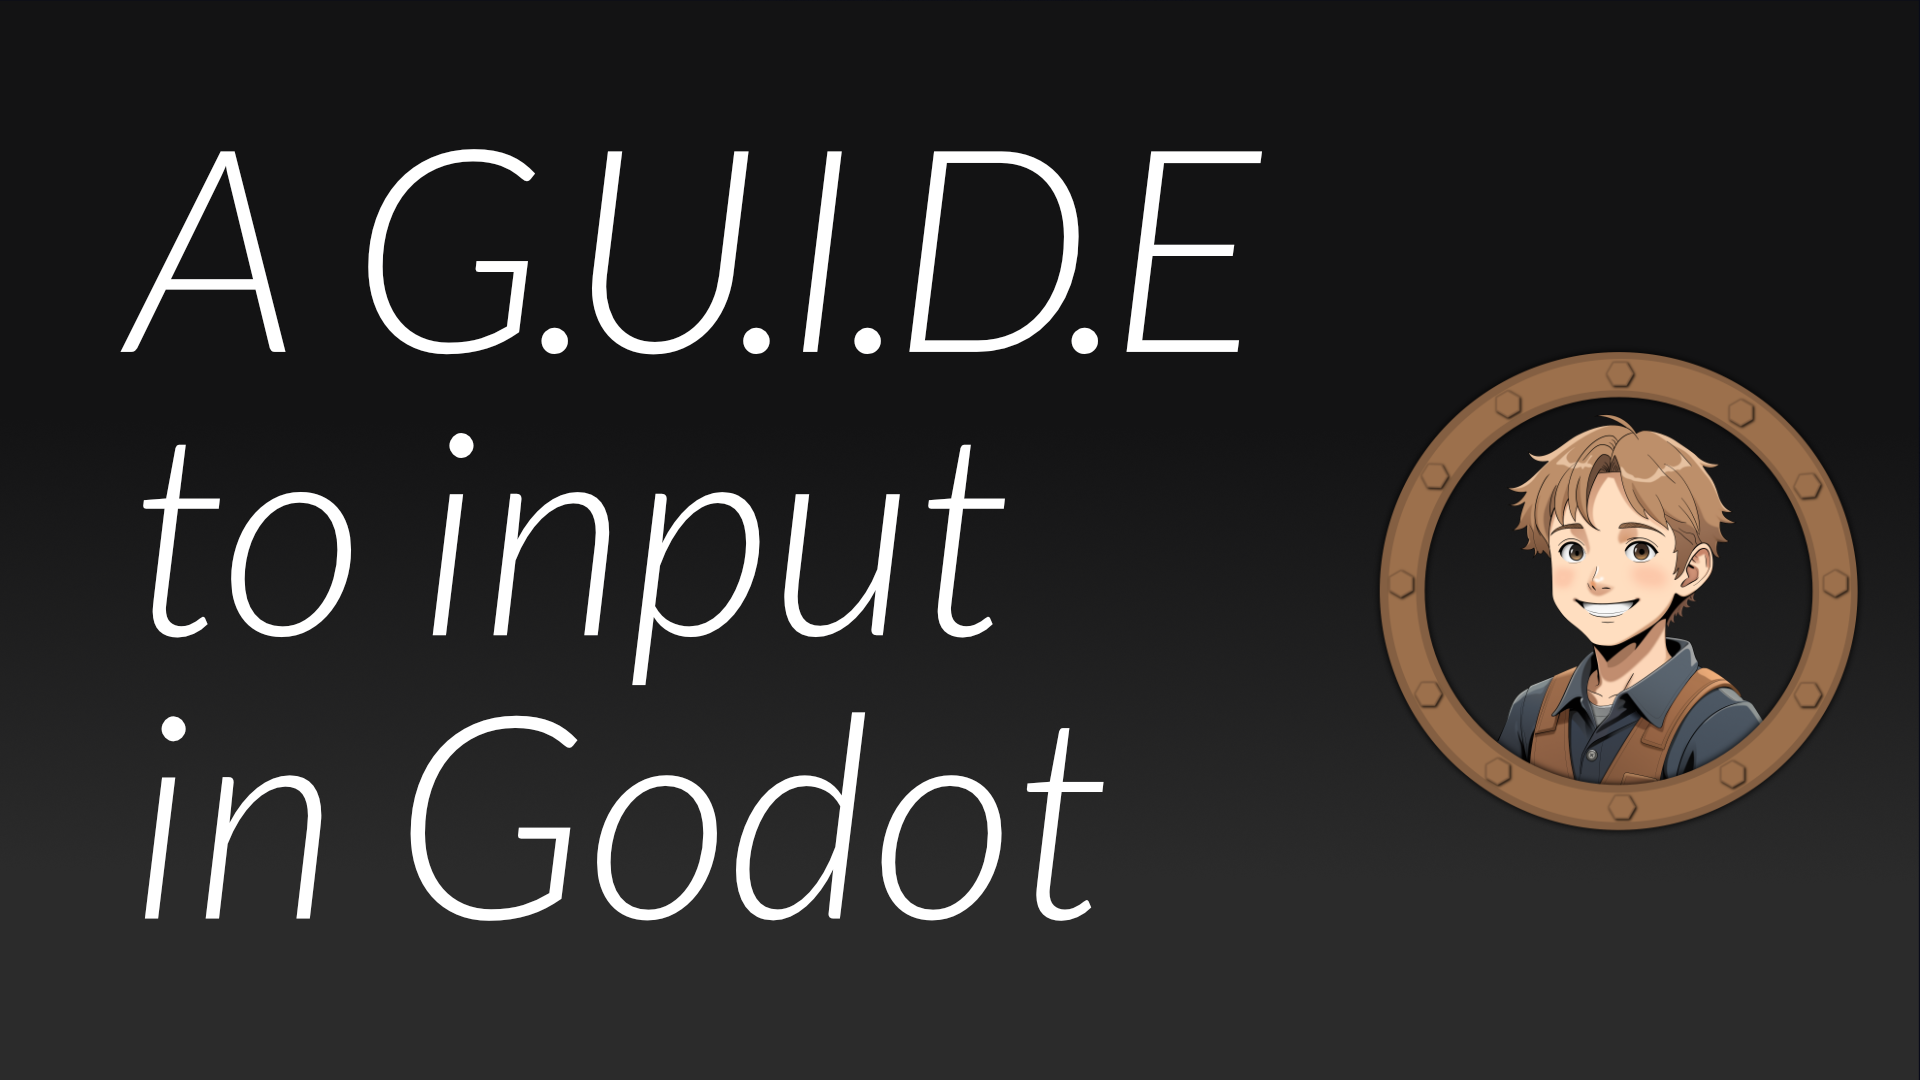
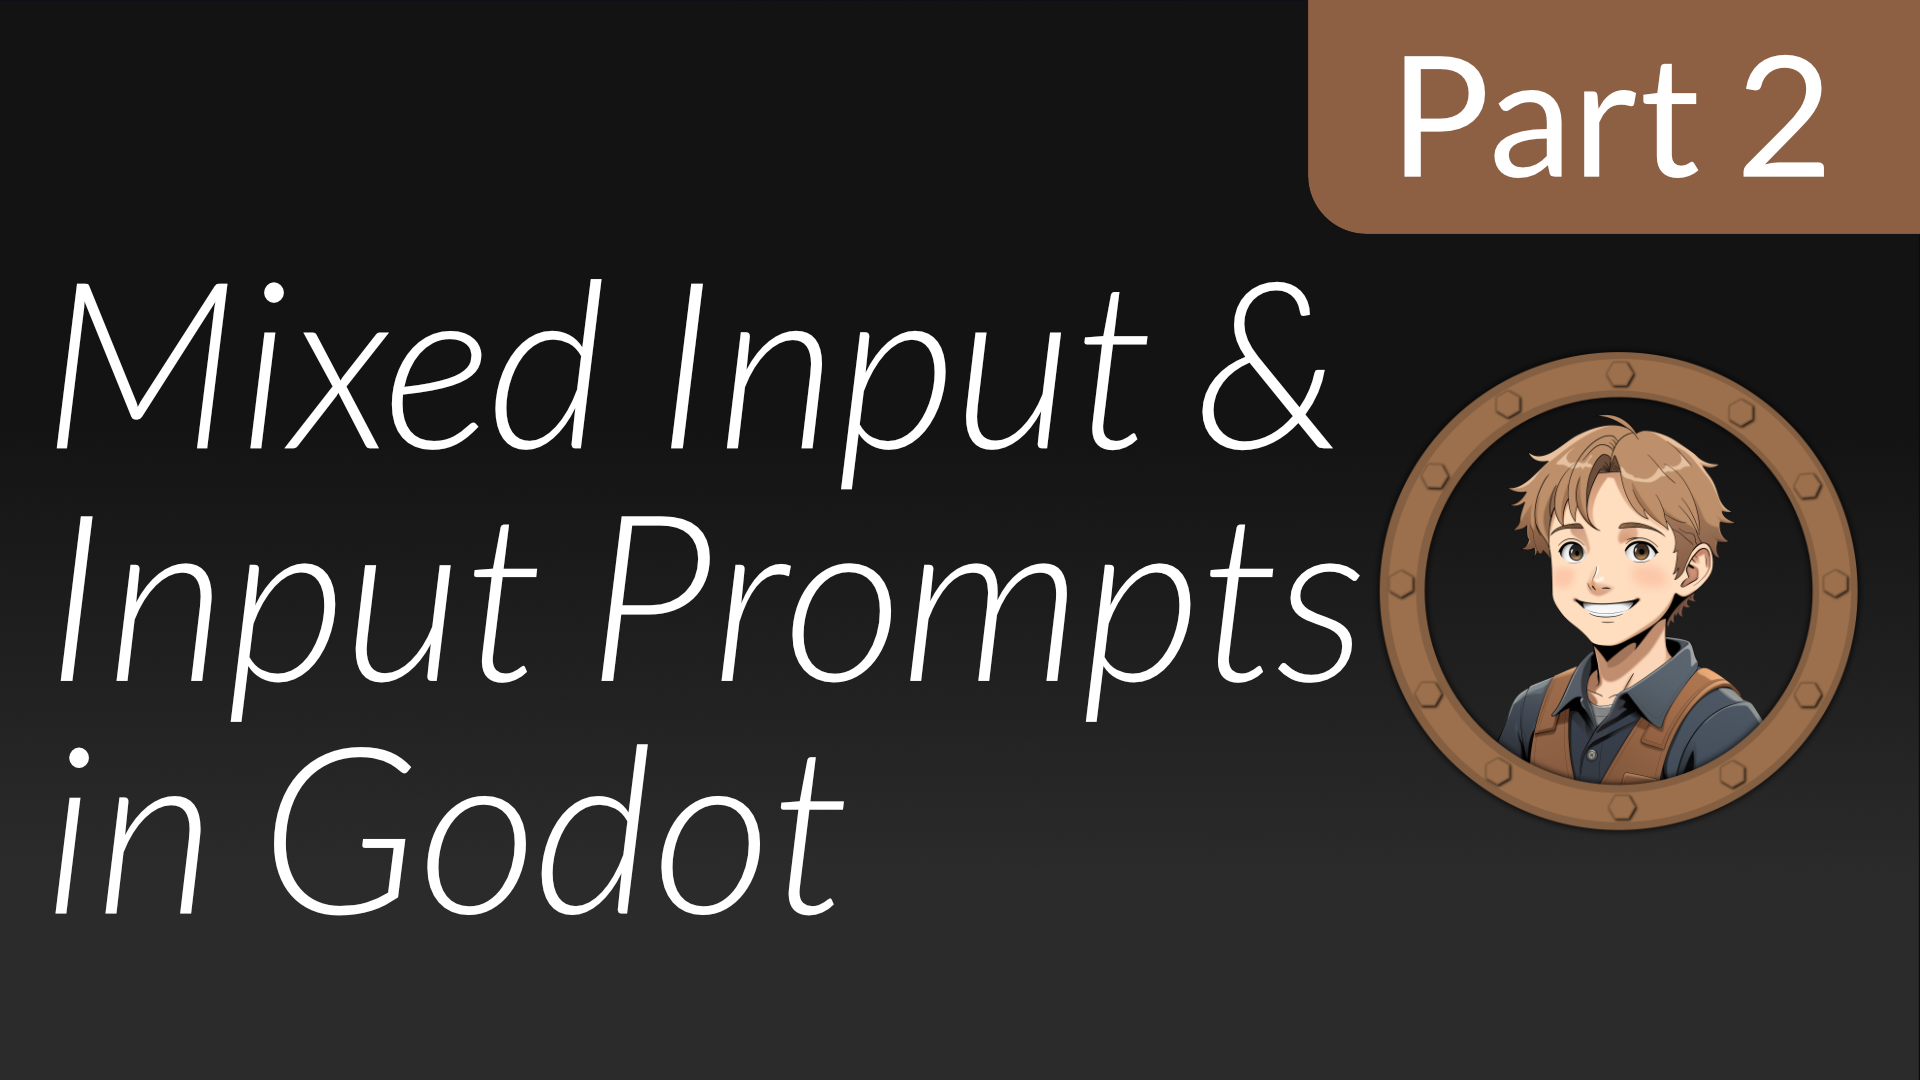
chore: update title image / video link

Changed region(s): [[0.0312, 0.0, 1.0, 0.8556], [0.2188, 0.1222, 0.2812, 0.1833]]

diff --git a/README.md b/README.md
@@ -1,7 +1,7 @@
 # A G.U.I.D.E to input in Godot - Part 2: Mixed Input and Input Prompts
  
 <p align="center">
-  <a href="https://youtu.be/gNiiaNViaUg">
+  <a href="https://youtu.be/lEBYnQC-vJw">
 <img src="_assets/title_card.png" width="1280" alt="A G.U.I.D.E to input in Godot on YouTube Cover Image">
 </a> 
 </p>
